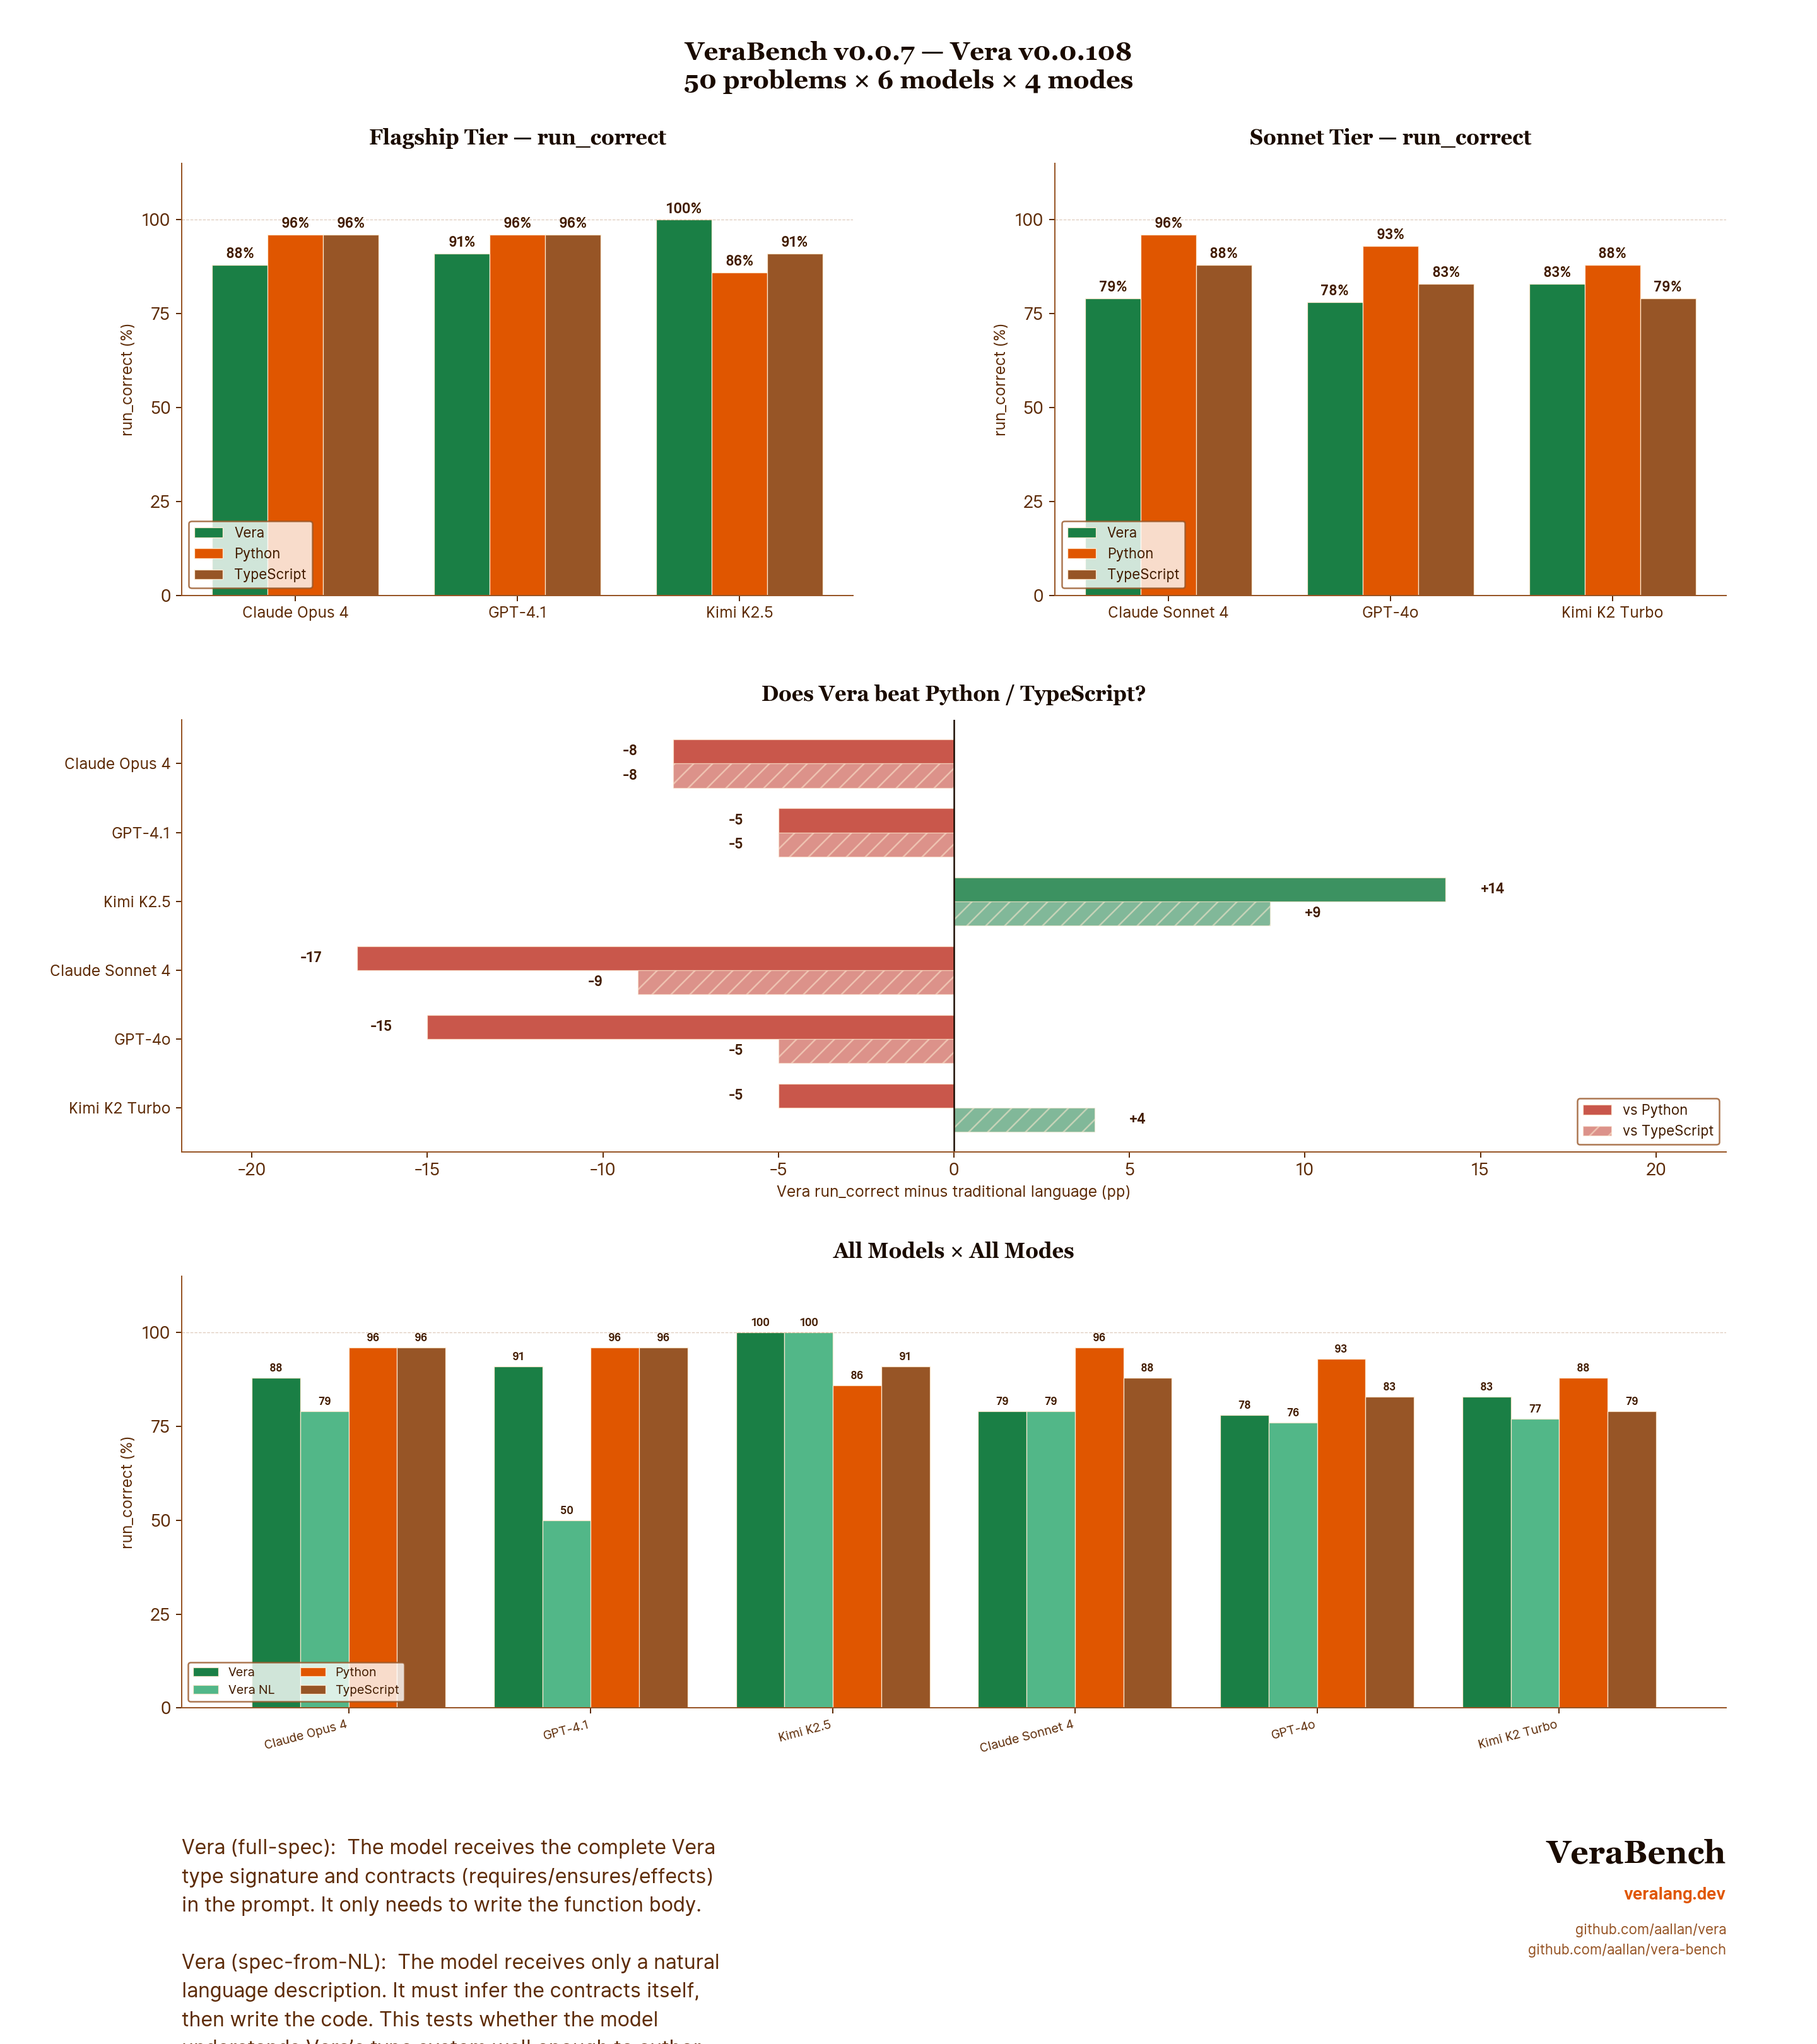
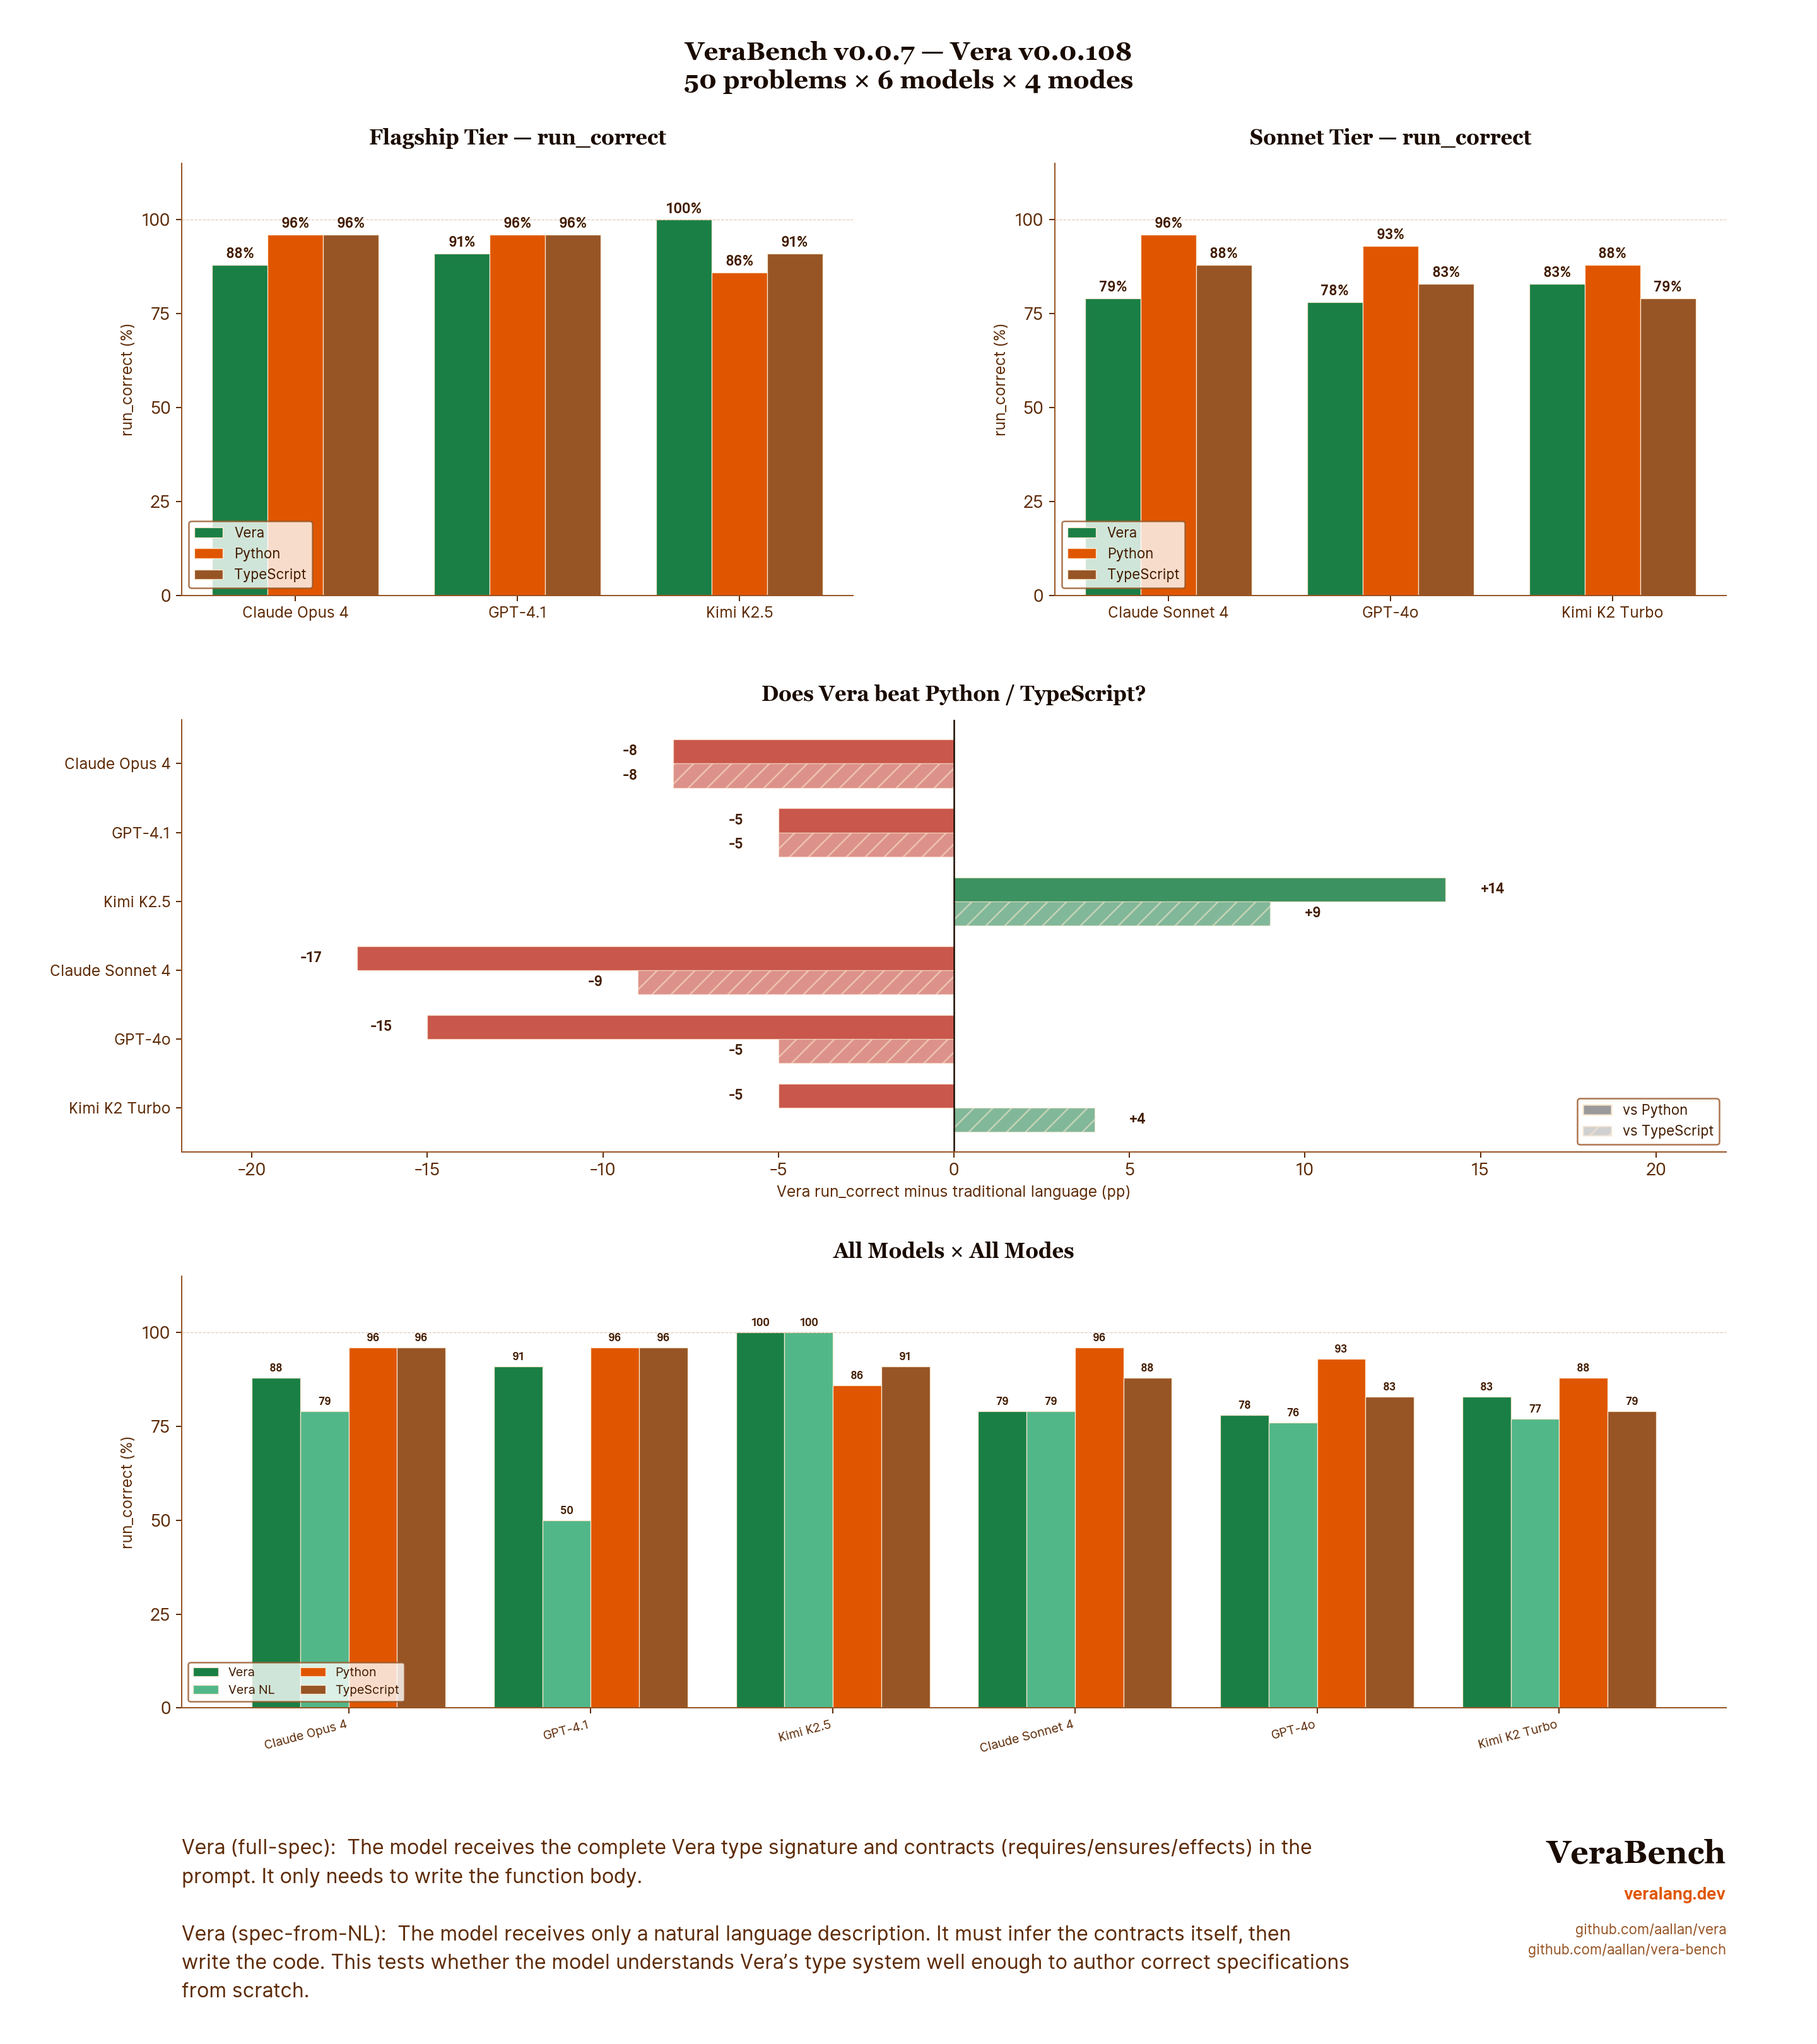
Fix chart text layout and use neutral legend swatches
- Restore wide explanation text with fmt:off to prevent ruff reflow
- Use neutral grey legend swatches instead of red in delta chart

Changed region(s): [[0.0938, 0.904, 0.7188, 1.0], [0.875, 0.5299, 0.9062, 0.5611]]

diff --git a/scripts/plot_results.py b/scripts/plot_results.py
@@ -134,7 +134,6 @@ def plot_vera_vs_both(ax, flagship: dict, sonnet: dict):
         color=colors_py,
         edgecolor=CREAM,
         linewidth=0.5,
-        label="vs Python",
         alpha=0.85,
     )
     colors_ts = [GREEN if d >= 0 else RED for d in delta_ts]
@@ -145,7 +144,6 @@ def plot_vera_vs_both(ax, flagship: dict, sonnet: dict):
         color=colors_ts,
         edgecolor=CREAM,
         linewidth=0.5,
-        label="vs TypeScript",
         alpha=0.55,
         hatch="//",
     )
@@ -196,7 +194,16 @@ def plot_vera_vs_both(ax, flagship: dict, sonnet: dict):
     _style_ax(ax)
     ax.set_xlim(-22, 22)
     ax.invert_yaxis()
-    ax.legend(loc="lower right", fontsize=9, framealpha=0.8, edgecolor=BROWN_300)
+
+    # fmt: off
+    # Neutral grey legend swatches (not red/green)
+    from matplotlib.patches import Patch  # noqa: E402
+    legend_handles = [
+        Patch(facecolor="#888888", edgecolor=CREAM, alpha=0.85, label="vs Python"),
+        Patch(facecolor="#aaaaaa", edgecolor=CREAM, alpha=0.55, hatch="//", label="vs TypeScript"),  # noqa: E501
+    ]
+    ax.legend(handles=legend_handles, loc="lower right", fontsize=9, framealpha=0.8, edgecolor=BROWN_300)  # noqa: E501
+    # fmt: on
 
 
 def plot_all_modes(ax, flagship: dict, sonnet: dict):
@@ -292,17 +299,16 @@ def main():
     ax_footer = fig.add_subplot(gs[3, :])
     ax_footer.axis("off")
 
+    # fmt: off
     explanation = (
-        "Vera (full-spec):  The model receives the complete Vera\n"
-        "type signature and contracts (requires/ensures/effects)\n"
-        "in the prompt. It only needs to write the function body."
-        "\n\n"
-        "Vera (spec-from-NL):  The model receives only a natural\n"
-        "language description. It must infer the contracts itself,\n"
-        "then write the code. This tests whether the model\n"
-        "understands Vera\u2019s type system well enough to author\n"
-        "correct specifications from scratch."
+        "Vera (full-spec):  The model receives the complete Vera type signature and contracts (requires/ensures/effects) in the\n"  # noqa: E501
+        "prompt. It only needs to write the function body.\n"
+        "\n"
+        "Vera (spec-from-NL):  The model receives only a natural language description. It must infer the contracts itself, then\n"  # noqa: E501
+        "write the code. This tests whether the model understands Vera\u2019s type system well enough to author correct specifications\n"  # noqa: E501
+        "from scratch."
     )
+    # fmt: on
     ax_footer.text(
         0.0,
         0.95,
